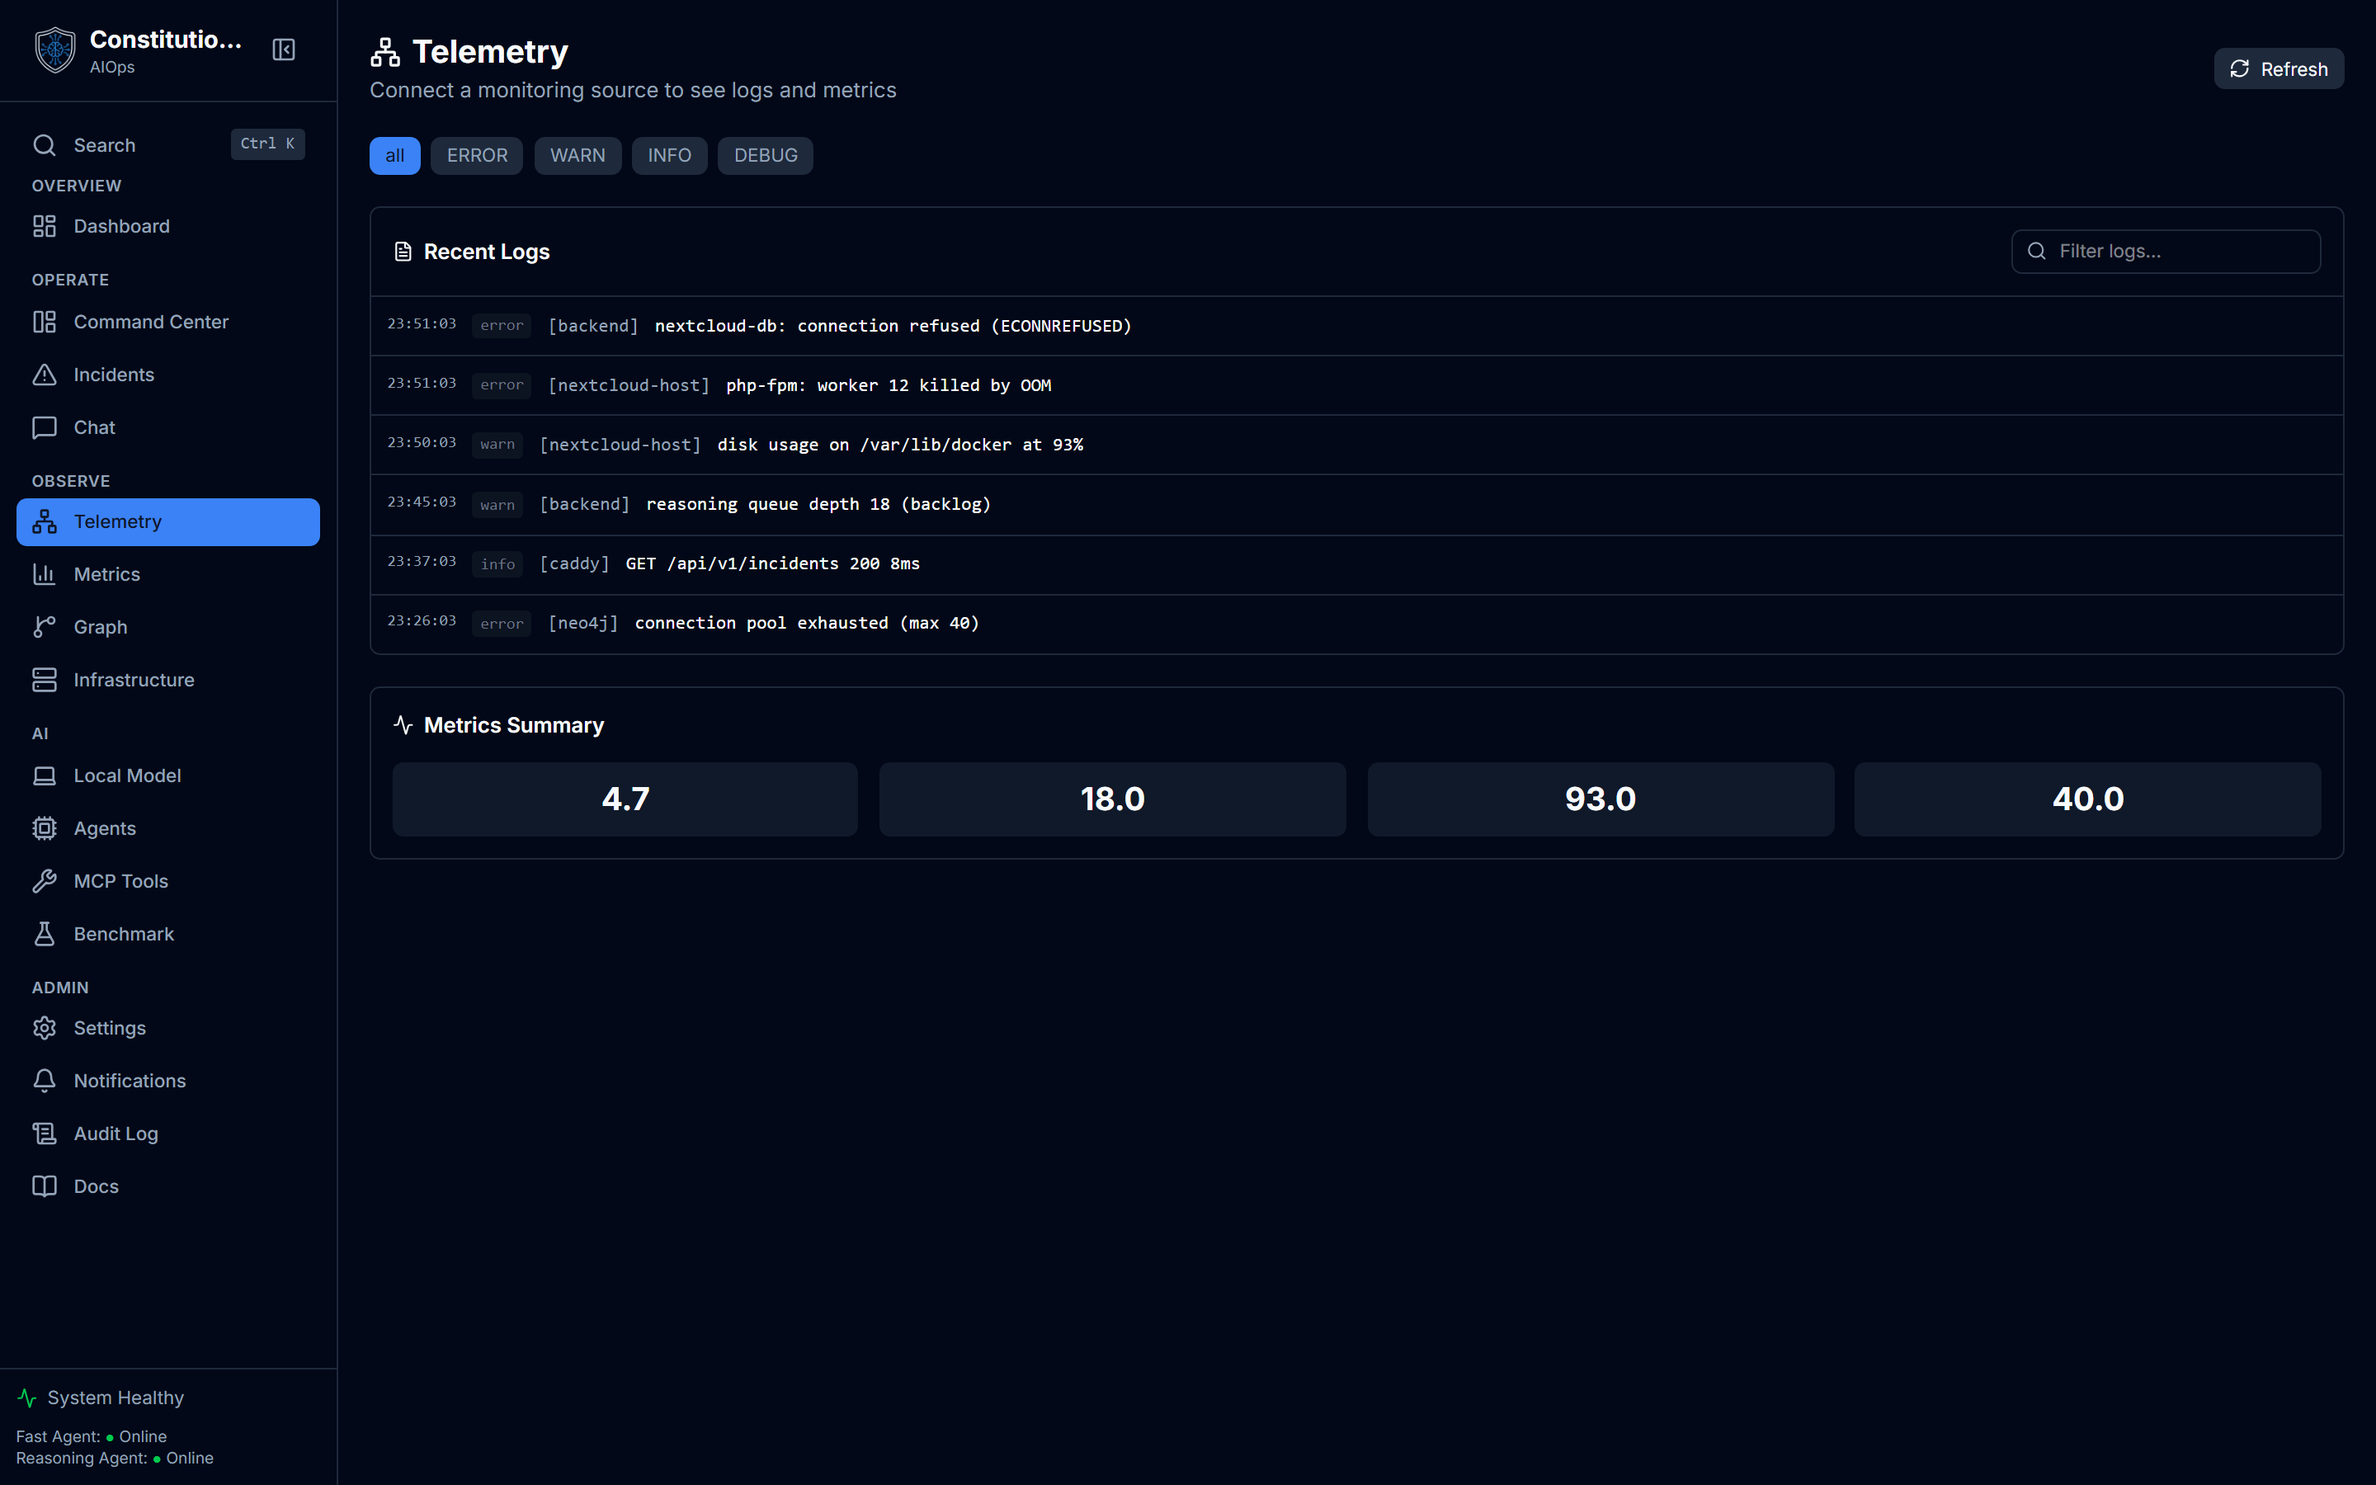
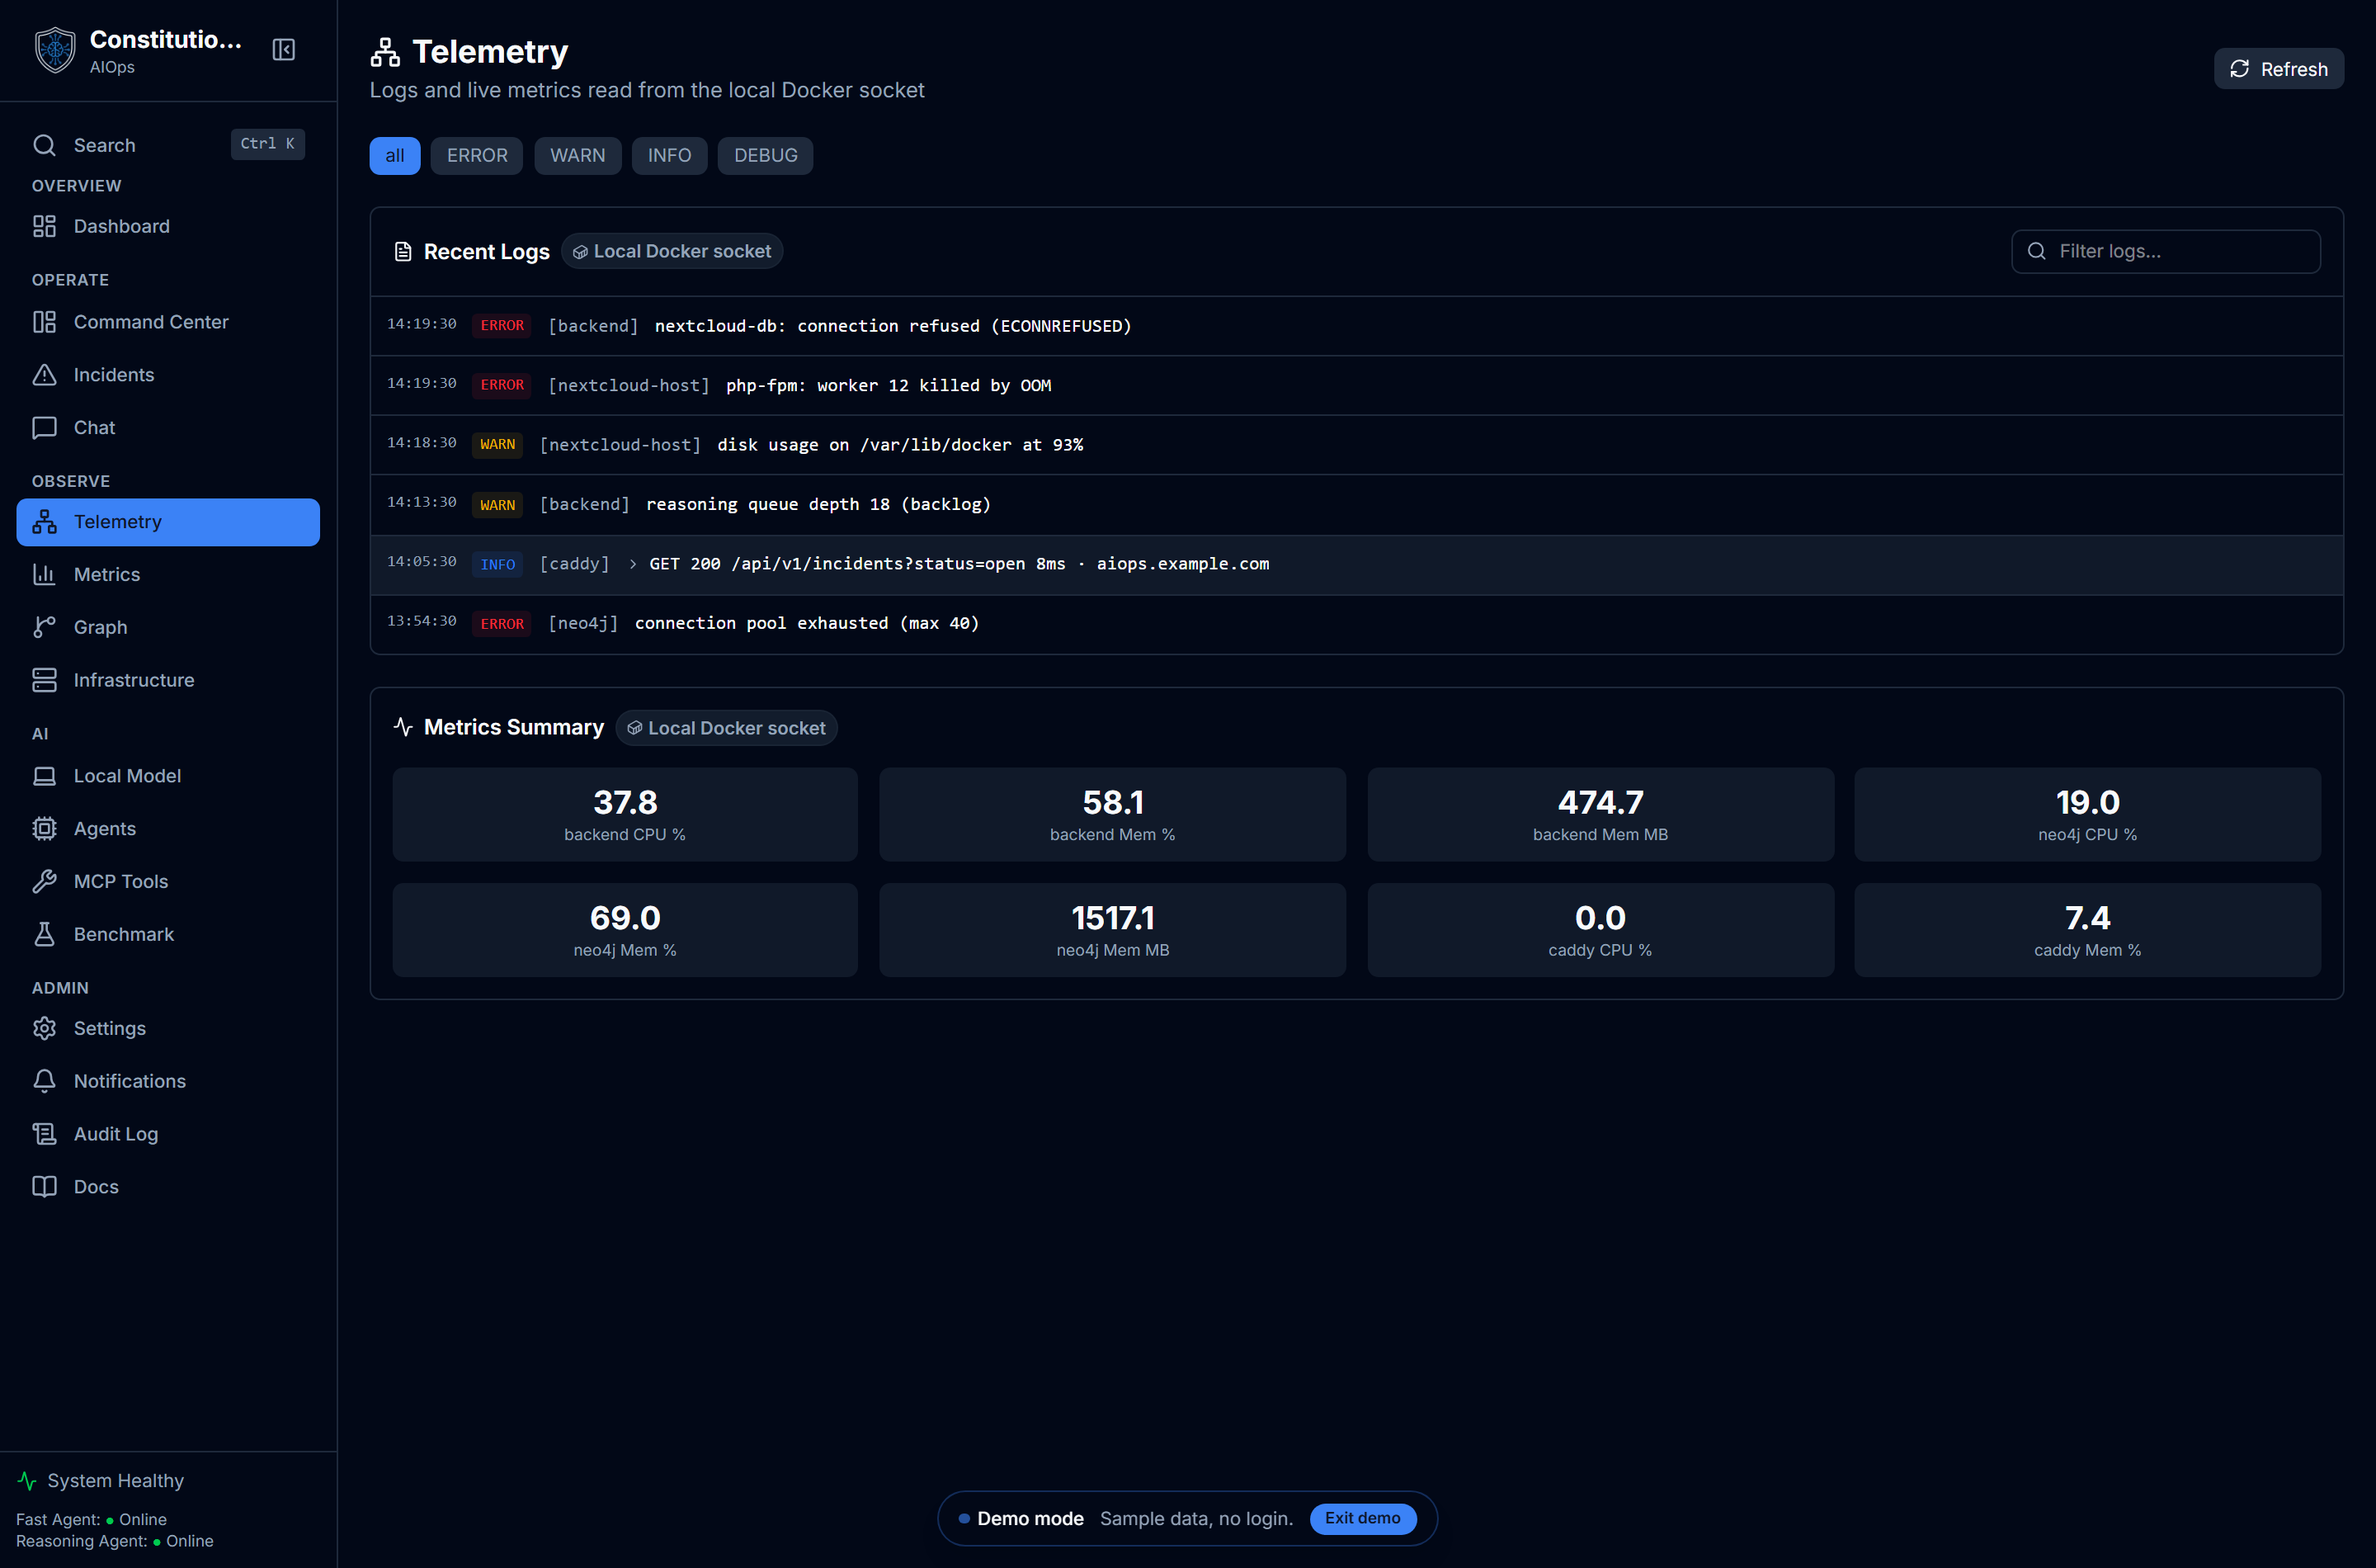
docs: deepen the remaining feature pages with element screenshots
Add element-level screenshots and detail to the telemetry, agent hub,
infrastructure, and generative UI pages: an expanded structured log line, an
expanded agent activity row, the remote-host onboarding block, and the command
palette. Re-capture the telemetry full-page shot with the corrected level badges.

diff --git a/docs-site/features/infrastructure.md b/docs-site/features/infrastructure.md
@@ -53,6 +53,17 @@ Linux host so its containers show up here too.
    button. This does not delete telemetry: it only hides the label until you
    restore it, and it reappears if the host keeps shipping data.
 
+## Onboarding a remote host
+
+![The Monitor a Remote Host block: ingest endpoint URLs, an agent configuration form, and a live generated .env block](/screenshots/infrastructure-remote-host.png)
+
+The onboarding block does the wiring for you. The ingest endpoint URLs are built
+from your own domain, so Loki, Prometheus, and OTLP each get a copy button. Fill
+in an edge label and the ingest credentials and the generated `.env` block
+updates live, ready to paste onto the remote host beside one Grafana Alloy agent.
+The ingest password stays in the browser for the session only and is never
+saved, so nothing sensitive is written to disk on this side.
+
 ## The remote-host list is derived, not managed
 
 Monitored remote hosts are not something you register by hand. The backend

diff --git a/docs-site/features/telemetry.md b/docs-site/features/telemetry.md
@@ -42,6 +42,18 @@ fallback source without saying so.
    other isn't.
 5. Use Refresh to pull a new snapshot on demand.
 
+## Reading a structured log line
+
+![A Caddy access log expanded to its full JSON payload, beside coloured level badges and a Local Docker socket source badge](/screenshots/telemetry-logs.png)
+
+Container stdout is not always a clean sentence. A Caddy access log arrives as a
+JSON object wrapped in ANSI colour codes, unreadable when dumped raw. The page
+strips the colour codes and shows a one-line summary instead: method, status,
+path, duration, and host. Click the line to expand the full JSON payload beneath
+it, with the request block, status, size, and duration intact. The level badges
+colour by severity and the source badge names where the line came from, so you
+always know you are reading real container output rather than a fabricated feed.
+
 ## Data provenance
 
 Every log and metric fetch tries the LGTM stack first: Loki for logs,

diff --git a/docs-site/features/agent-hub.md b/docs-site/features/agent-hub.md
@@ -49,6 +49,17 @@ field in the output and shows that, or falls back to a severity/category
 pair, or finally just the first 120 characters of the raw text if none of
 that parses.
 
+## Inside an activity row
+
+![An expanded reasoning-agent RCA row showing the full prompt and a JSON result with a root cause and a confidence score](/screenshots/agent-hub-activity.png)
+
+Click any row to open it. The collapsed summary gives way to the full input the
+agent received and the full output it produced, rendered as JSON when it parses.
+Here a reasoning-agent RCA shows the prompt it ran, then a result carrying the
+root cause and a confidence score, with the type badge, latency, and model chip
+still on the header. The rows below stay collapsed, so you scan the stream and
+open only the one you care about.
+
 ## One endpoint, two roles
 
 The fast and reasoning agents are conceptually separate: one built for quick

diff --git a/docs-site/features/generative-ui.md b/docs-site/features/generative-ui.md
@@ -115,6 +115,8 @@ tab.
 
 ## Command palette
 
+![The command palette open with a query typed, showing a ranked list of pages each tagged by section](/screenshots/command-palette.png)
+
 Press <kbd>Cmd</kbd>/<kbd>Ctrl</kbd> + <kbd>K</kbd> anywhere to open the command
 palette. It is a zero-dependency fuzzy quick-nav over the app's own routes: type
 a few characters, get a ranked list, press Enter to go. An exact title match
